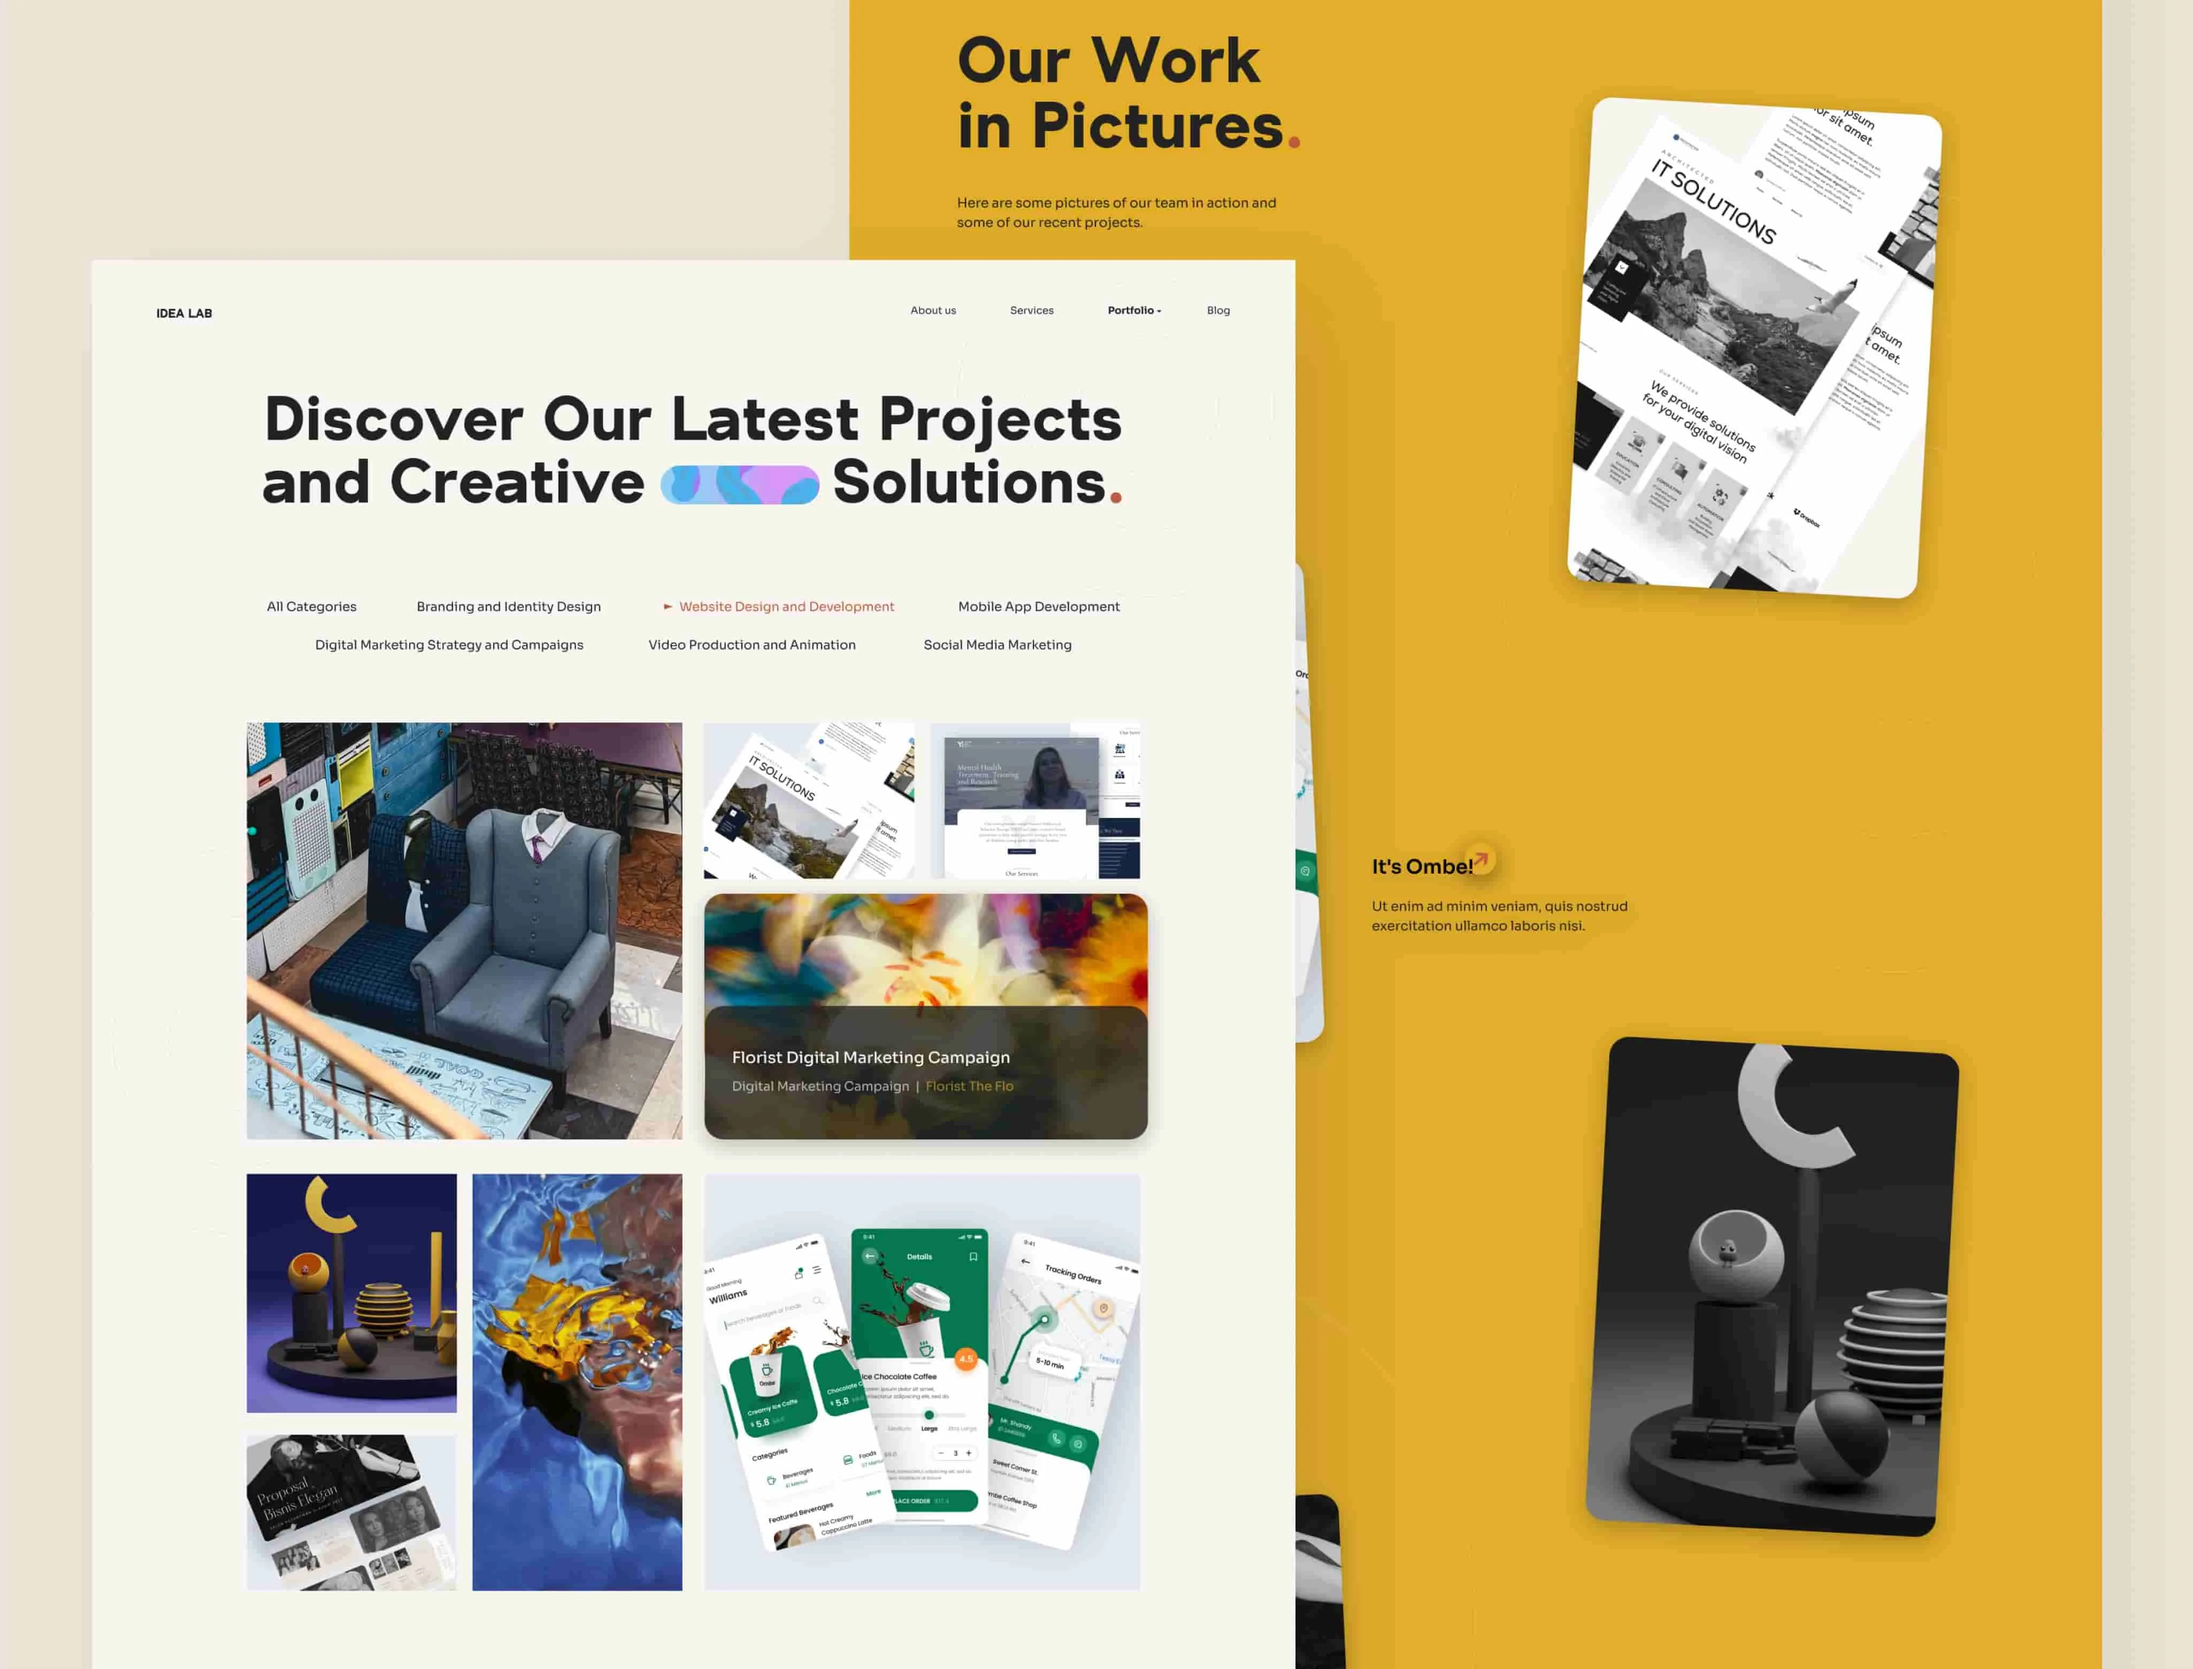
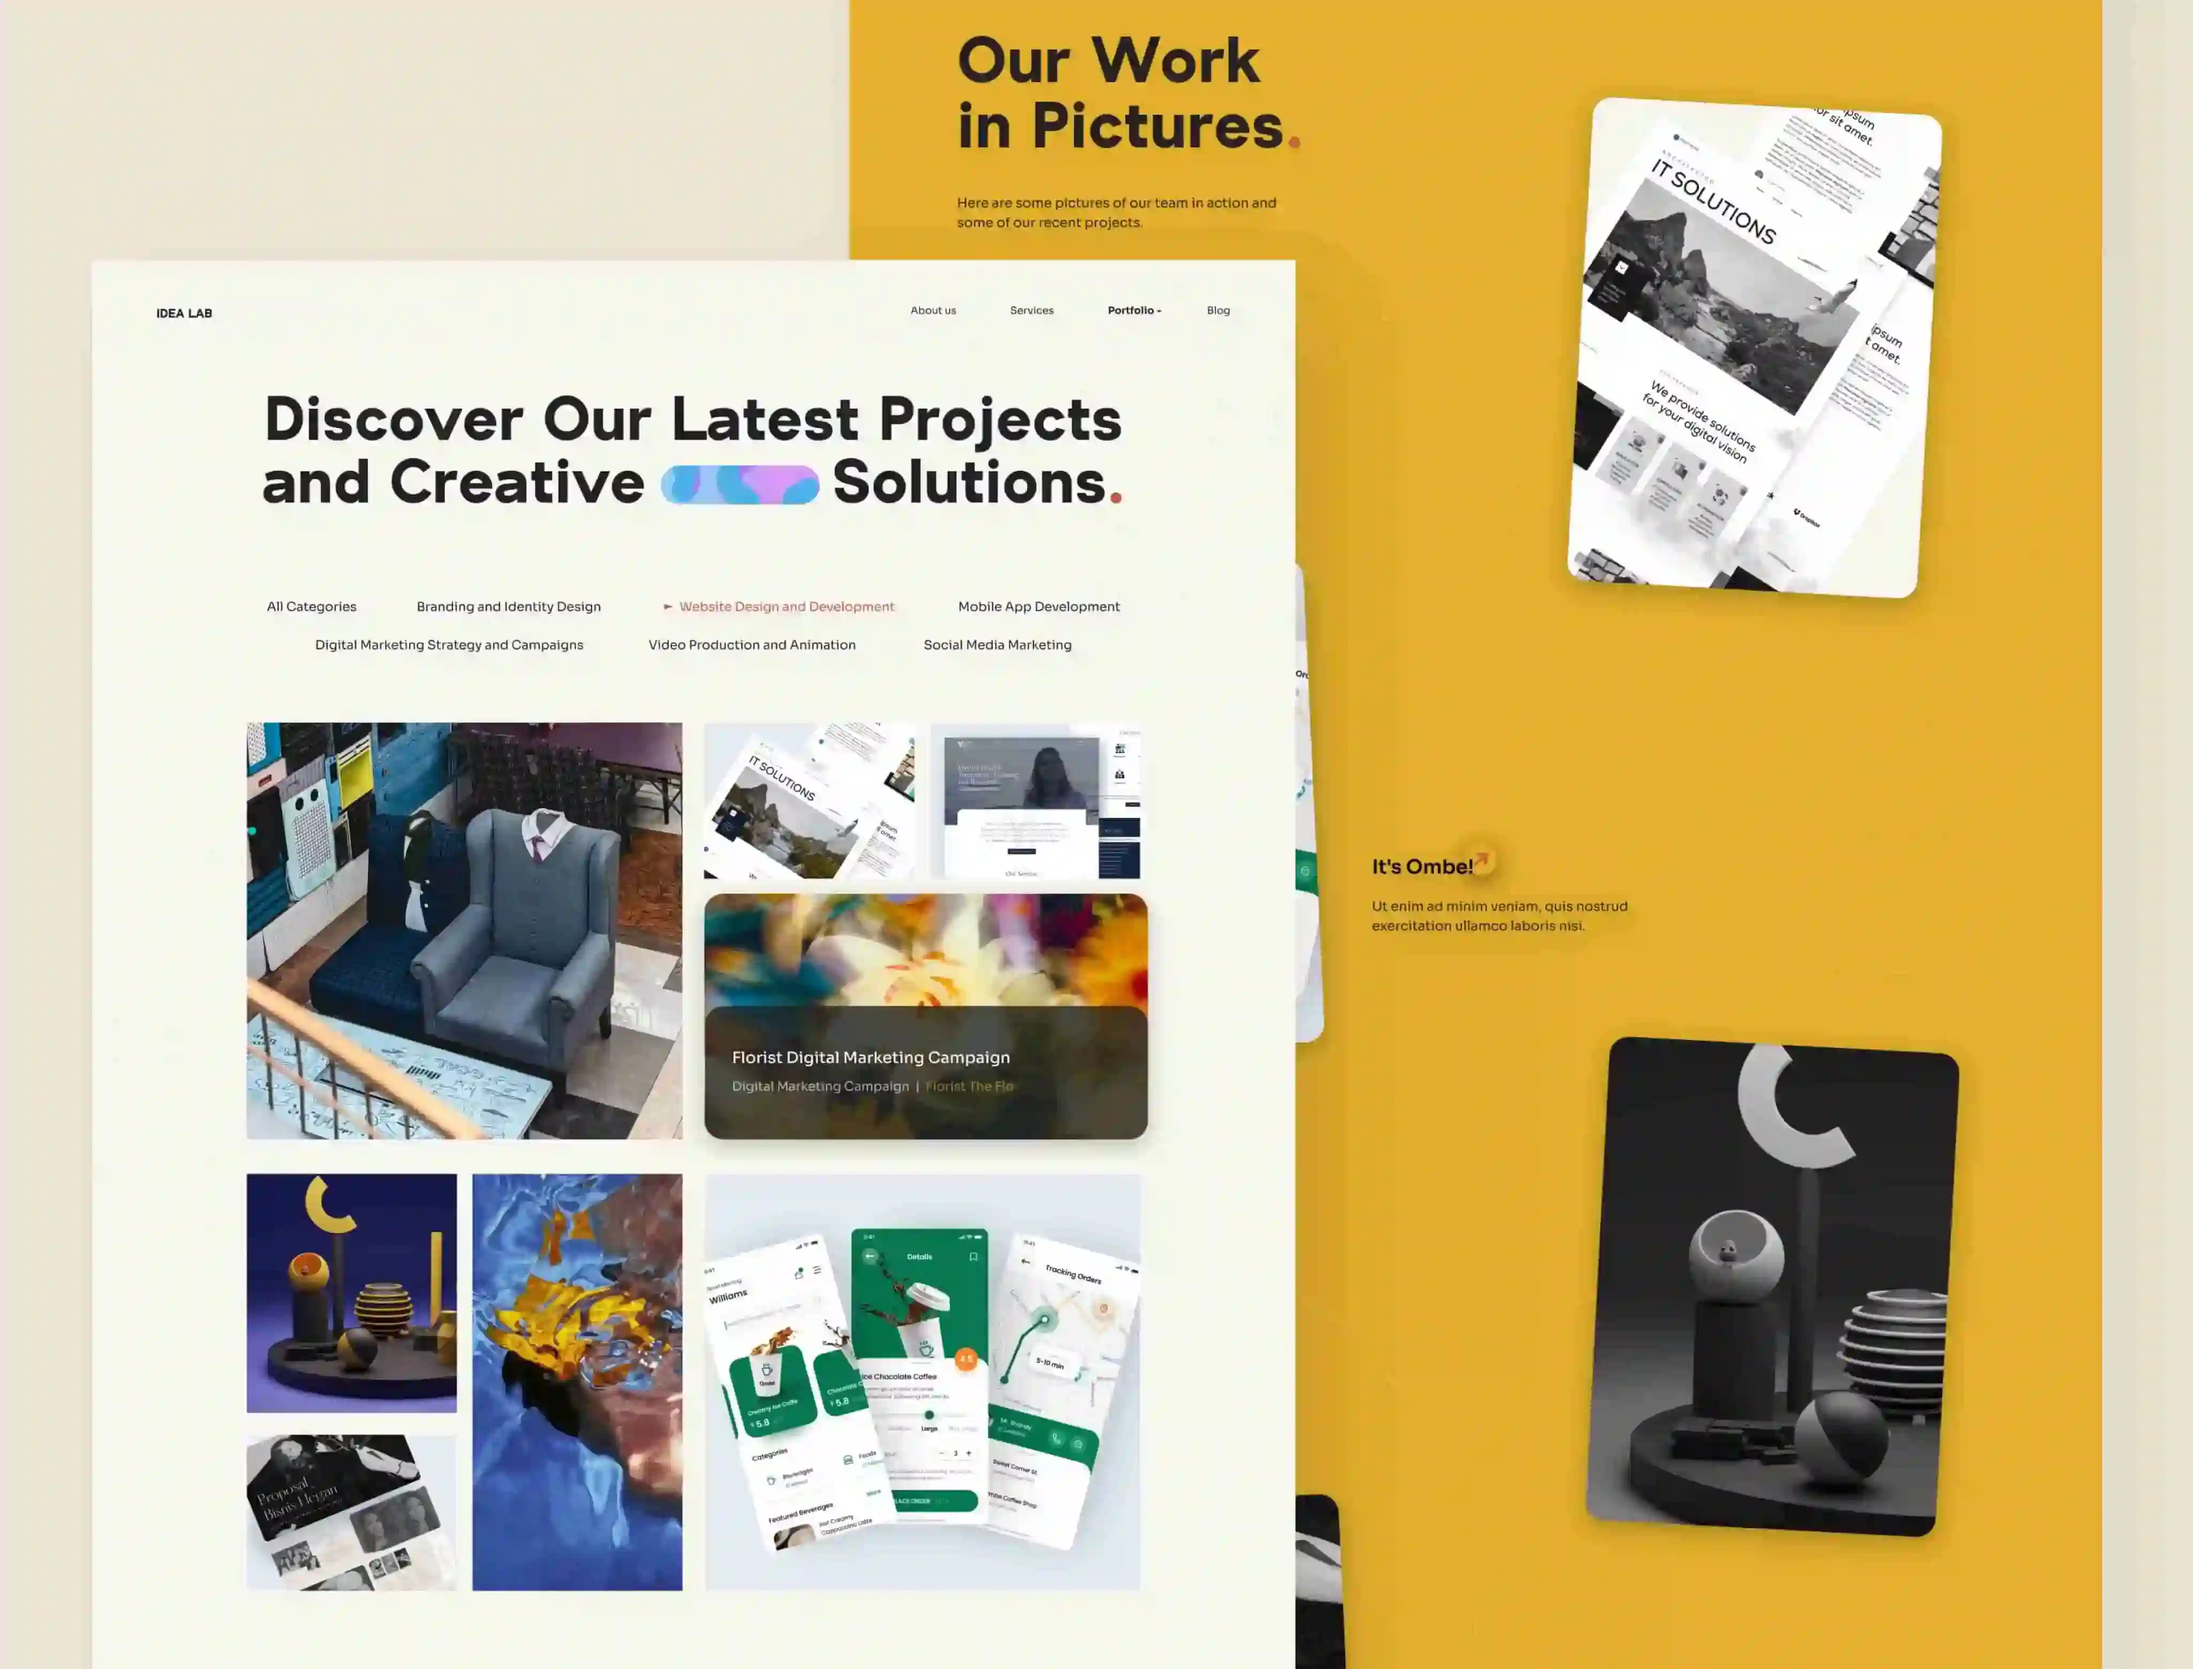
remove extra space on right side

diff --git a/css/style.css b/css/style.css
@@ -44,8 +44,13 @@ ul {
 ======================================*/
 
 .container {
-  width: min(1200px, 90%);
-  margin: auto;
+  width: 100%;
+
+  max-width: 1200px;
+
+  margin: 0 auto;
+
+  padding: 0 16px;
 }
 
 .section {
@@ -1357,27 +1362,16 @@ textarea {
 
 .mobile-menu {
   position: fixed;
-
   top: 0;
-
   right: -320px;
-
   width: 300px;
-
   height: 100vh;
-
   background: #fff;
-
   transition: 0.35s;
-
   z-index: 1000;
-
   display: flex;
-
   flex-direction: column;
-
   padding: 25px;
-
   box-shadow: -5px 0 25px rgba(0, 0, 0, 0.15);
 }
 
@@ -1475,7 +1469,7 @@ textarea {
 .mobile-overlay.active {
   opacity: 1;
 
-  visibility: visible;
+  /* visibility: visible; */
 }
 .newsletter-error {
   color: #ff4d4f !important;
@@ -1485,4 +1479,14 @@ textarea {
   margin-top: 8px;
 
   display: none;
+}
+
+.hero,
+.about,
+.services,
+.why,
+.portfolio,
+.cta,
+.footer {
+  overflow: hidden;
 }
